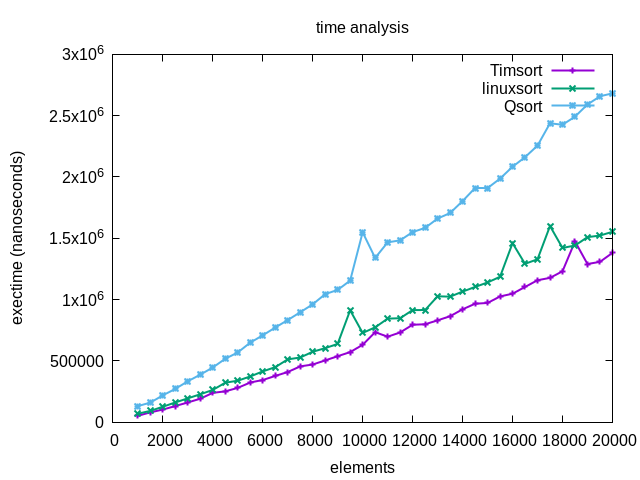
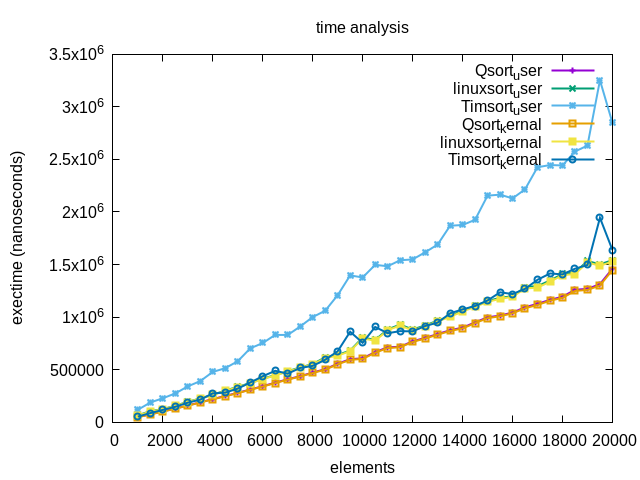
Measuring the execution time of algorithms in kernel

diff --git a/user.c b/user.c
@@ -2,6 +2,7 @@
 #include <stdbool.h>
 #include <stdio.h>
 #include <stdlib.h>
+#include <sys/ioctl.h>
 #include <time.h>
 #include <unistd.h>
 
@@ -15,9 +16,12 @@
 
 
 typedef struct {
-    unsigned long long qsort;
-    unsigned long long timsort;
-    unsigned long long linuxsort;
+    unsigned long long qsort_user;
+    unsigned long long timsort_user;
+    unsigned long long linuxsort_user;
+    unsigned long long qsort_kernal;
+    unsigned long long timsort_kernal;
+    unsigned long long linuxsort_kernal;
 } sorttime;
 
 sorttime time_analysis(size_t);
@@ -31,8 +35,10 @@ int main()
 
     for (size_t k = start; k <= end; k += step) {
         result = time_analysis(k);
-        fprintf(file, "%zu,%llu,%llu,%llu\n", k, result.qsort, result.timsort,
-                result.linuxsort);
+        fprintf(file, "%zu,%llu,%llu,%llu,%llu,%llu,%llu\n", k,
+                result.qsort_user, result.timsort_user, result.linuxsort_user,
+                result.qsort_kernal, result.timsort_kernal,
+                result.linuxsort_kernal);
     }
     fclose(file);
     return 0;
@@ -87,8 +93,8 @@ sorttime time_analysis(size_t num)
             goto error;
         }
 
-        time.timsort = (end.tv_sec - start.tv_sec) * 1000000000LL +
-                       (end.tv_nsec - start.tv_nsec);
+        time.timsort_user = (end.tv_sec - start.tv_sec) * 1000000000LL +
+                            (end.tv_nsec - start.tv_nsec);
         pass = true;
         /* Verify the result of sorting */
 
@@ -98,6 +104,8 @@ sorttime time_analysis(size_t num)
                 break;
             }
         }
+        time.timsort_kernal = (unsigned long long) ioctl(fd, 0, 0);
+        // printf("tim sort kernal time %llu\n", time.timsort_kernal);
 
         printf("Soring %s!\n", pass ? "succeeded" : "failed");
     }
@@ -128,8 +136,8 @@ sorttime time_analysis(size_t num)
             goto error;
         }
 
-        time.linuxsort = (end.tv_sec - start.tv_sec) * 1000000000LL +
-                         (end.tv_nsec - start.tv_nsec);
+        time.linuxsort_user = (end.tv_sec - start.tv_sec) * 1000000000LL +
+                              (end.tv_nsec - start.tv_nsec);
 
         pass = true;
         /* Verify the result of sorting */
@@ -140,6 +148,9 @@ sorttime time_analysis(size_t num)
                 break;
             }
         }
+
+        time.linuxsort_kernal = (unsigned long long) ioctl(fd, 0, 0);
+        // printf("tim sort kernal time %llu\n", time.linuxsort_kernal);
 
         printf("Soring %s!\n", pass ? "succeeded" : "failed");
     }
@@ -169,8 +180,8 @@ sorttime time_analysis(size_t num)
             perror("Failed to write character device");
             goto error;
         }
-        time.qsort = (end.tv_sec - start.tv_sec) * 1000000000LL +
-                     (end.tv_nsec - start.tv_nsec);
+        time.qsort_user = (end.tv_sec - start.tv_sec) * 1000000000LL +
+                          (end.tv_nsec - start.tv_nsec);
 
         pass = true;
         /* Verify the result of sorting */
@@ -181,6 +192,9 @@ sorttime time_analysis(size_t num)
                 break;
             }
         }
+
+        time.qsort_kernal = (unsigned long long) ioctl(fd, 0, 0);
+        // printf("tim sort kernal time %llu\n", time.qsort_kernal);
 
         printf("Soring %s!\n", pass ? "succeeded" : "failed");
     }

diff --git a/sort_impl.c b/sort_impl.c
@@ -1,5 +1,6 @@
 #include <linux/slab.h>
 #include <linux/sort.h>
+#include <linux/time.h>
 #include <linux/workqueue.h>
 
 #include "sort.h"
@@ -317,14 +318,16 @@ int num_cmp(const void *a, const void *b)
     return (*(int *) a - *(int *) b);
 }
 
-void sort_main(void *sort_buffer,
-               size_t size,
-               size_t es,
-               sort_method_t sort_method)
+ktime_t sort_main(void *sort_buffer,
+                  size_t size,
+                  size_t es,
+                  sort_method_t sort_method)
 {
     /* The allocation must be dynamic so that the pointer can be reliably freed
      * within the work function.
      */
+    static ktime_t kt;  // evaluate kernal module sorting time
+
     struct common common;
     switch (sort_method) {
     case TIMSORT:
@@ -340,9 +343,11 @@ void sort_main(void *sort_buffer,
 
         init_timsort(t, head, list_cmp);
 
+        kt = ktime_get(); /*sorting time*/
         queue_work(workqueue, &t->w);
 
         drain_workqueue(workqueue);
+        kt = ktime_sub(ktime_get(), kt);
 
         list_to_buf(head, sort_buffer, size);
 
@@ -362,9 +367,11 @@ void sort_main(void *sort_buffer,
 
         init_linuxsort(ls, sort_buffer, size, &common);
 
+        kt = ktime_get(); /*sorting time*/
         queue_work(workqueue, &ls->w);
 
         drain_workqueue(workqueue);
+        kt = ktime_sub(ktime_get(), kt);
 
         break;
     case QSORT:
@@ -382,6 +389,7 @@ void sort_main(void *sort_buffer,
 
         init_qsort(q, sort_buffer, size, &common);
 
+        kt = ktime_get();
         queue_work(workqueue, &q->w);
 
         /* Ensure completion of all work before proceeding, as reliance on
@@ -389,12 +397,14 @@ void sort_main(void *sort_buffer,
          * risk of the work item referencing a pointer that has ceased to exist.
          */
         drain_workqueue(workqueue);
+        kt = ktime_sub(ktime_get(), kt);
         break;
     case PDQSORT:
         printk(KERN_INFO "Start sorting: pdqsort\n");
         break;
     default:
         printk(KERN_WARNING "Unknown sort method selected\n");
-        return;
+        break;
     }
+    return kt;
 }

diff --git a/sort_mod.c b/sort_mod.c
@@ -3,6 +3,7 @@
 #include <linux/init.h>
 #include <linux/module.h>
 #include <linux/slab.h>
+#include <linux/time.h>
 #include <linux/version.h>
 
 #include "sort.h"
@@ -23,6 +24,7 @@ static sort_method_t sort_method = TIMSORT;
 
 struct workqueue_struct *workqueue;
 
+static ktime_t kt;  // evaluate kernal module sorting time
 
 static int sort_open(struct inode *inode, struct file *file)
 {
@@ -61,7 +63,8 @@ static ssize_t sort_read(struct file *file,
      * various types in the future.
      */
     es = sizeof(int);
-    sort_main(sort_buffer, size / es, es, sort_method);
+
+    kt = sort_main(sort_buffer, size / es, es, sort_method);
 
     len = copy_to_user(buf, sort_buffer, size);
     if (len != 0)
@@ -98,11 +101,17 @@ static ssize_t sort_write(struct file *file,
 
     return sizeof(method);
 }
+
+static long sort_time(struct file *file, unsigned int cmd, unsigned long arg)
+{
+    return (long) ktime_to_ns(kt);
+}
 static const struct file_operations fops = {
     .read = sort_read,
     .write = sort_write,
     .open = sort_open,
     .release = sort_release,
+    .unlocked_ioctl = sort_time,
     .owner = THIS_MODULE,
 };
 

diff --git a/sort.h b/sort.h
@@ -9,9 +9,9 @@ typedef int cmp_t(const void *, const void *);
 
 extern struct workqueue_struct *workqueue;
 
-void sort_main(void *sort_buffer,
-               size_t size,
-               size_t es,
-               sort_method_t sort_method);
+ktime_t sort_main(void *sort_buffer,
+                  size_t size,
+                  size_t es,
+                  sort_method_t sort_method);
 
 #endif
